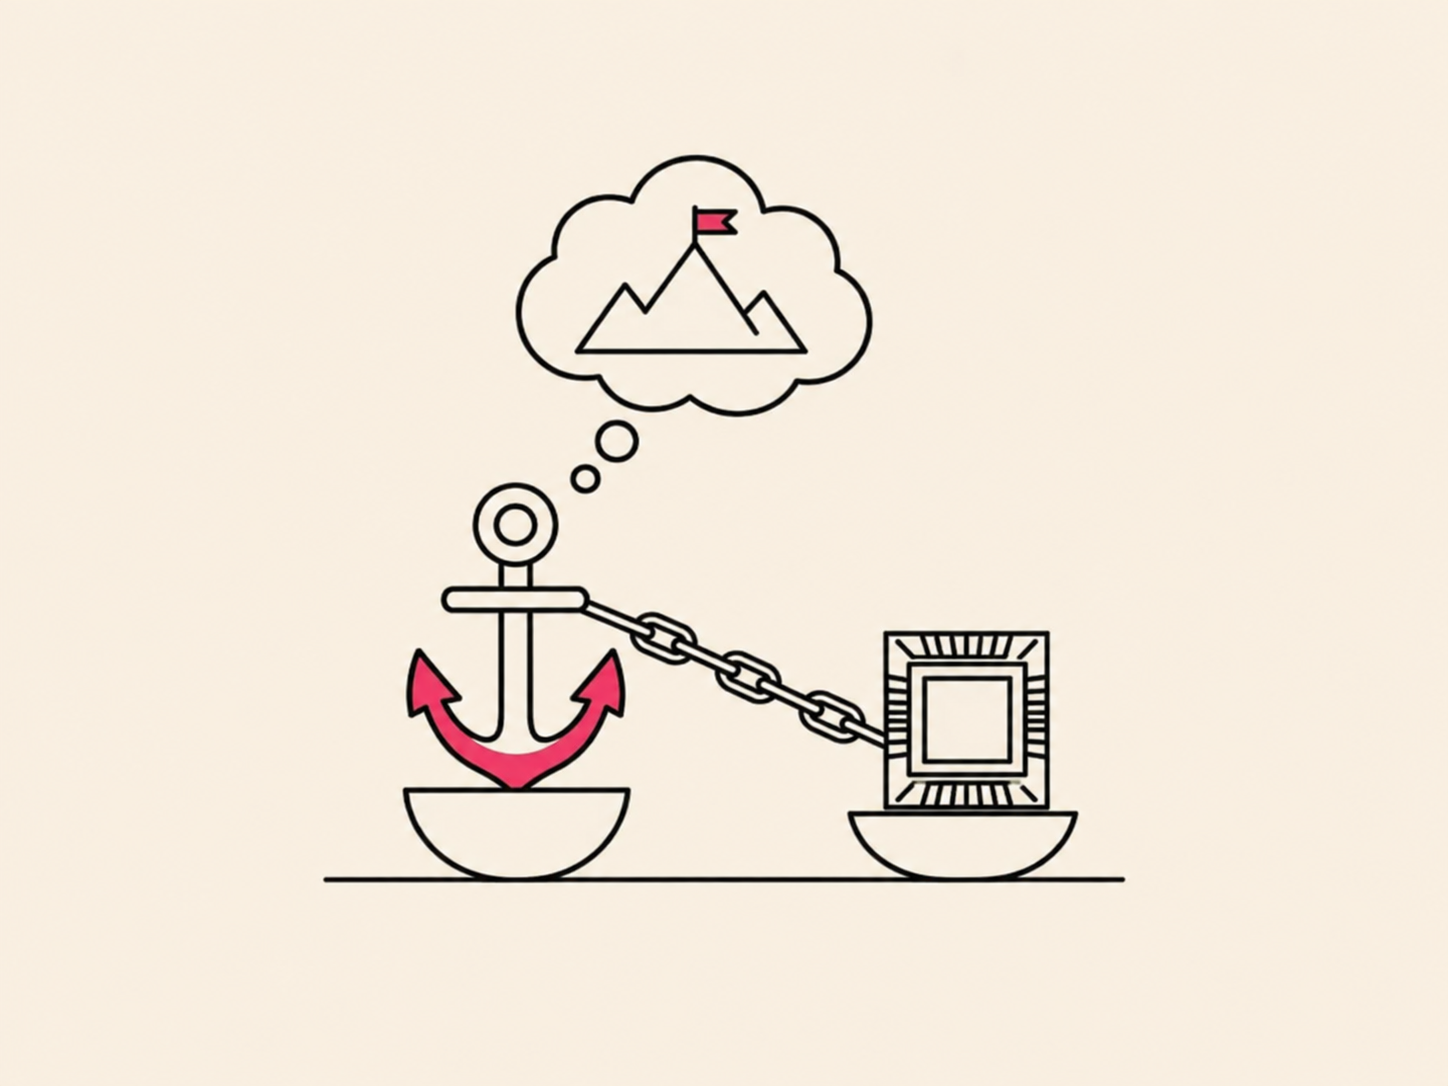
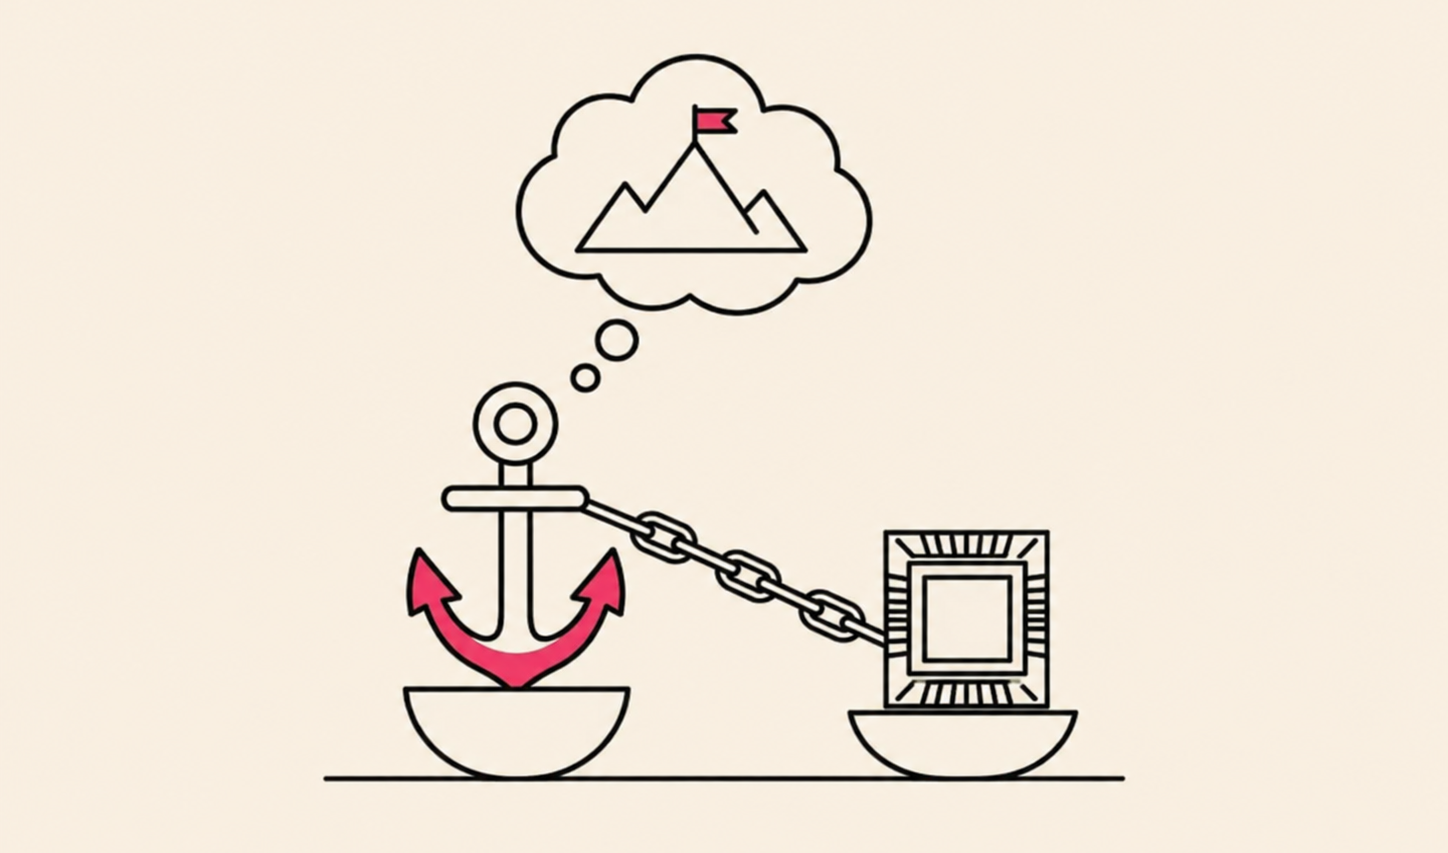
Tighten vertical whitespace on both illustrations without losing content

Changed region(s): [[0.2175, 0.061, 0.7769, 0.9144]]

diff --git a/src/content/AnclajePost.tsx b/src/content/AnclajePost.tsx
@@ -22,8 +22,8 @@ export function AnclajePost() {
         src={ilustracionAnclaje}
         alt="Un ancla encadenada a un chip, con una nube de pensamiento sobre el ancla mostrando una meta distinta en una montaña"
         width={1448}
-        height={1086}
-        className="mb-12 aspect-[4/3] w-full rounded-3xl object-cover"
+        height={853}
+        className="mb-12 aspect-[1448/853] w-full rounded-3xl object-cover"
       />
 
       <div className="space-y-6 text-lg leading-relaxed text-plum-900/80">

diff --git a/src/content/AutonomiaPost.tsx b/src/content/AutonomiaPost.tsx
@@ -49,8 +49,8 @@ export function AutonomiaPost() {
         src={ilustracionAutoridad}
         alt="Una balanza con una mano humana en un platillo y un chip en el otro"
         width={1024}
-        height={768}
-        className="mb-12 aspect-[21/9] w-full rounded-3xl object-cover"
+        height={549}
+        className="mb-12 aspect-[1024/549] w-full rounded-3xl object-cover"
       />
 
       <div className="space-y-6 text-lg leading-relaxed text-plum-900/80">
